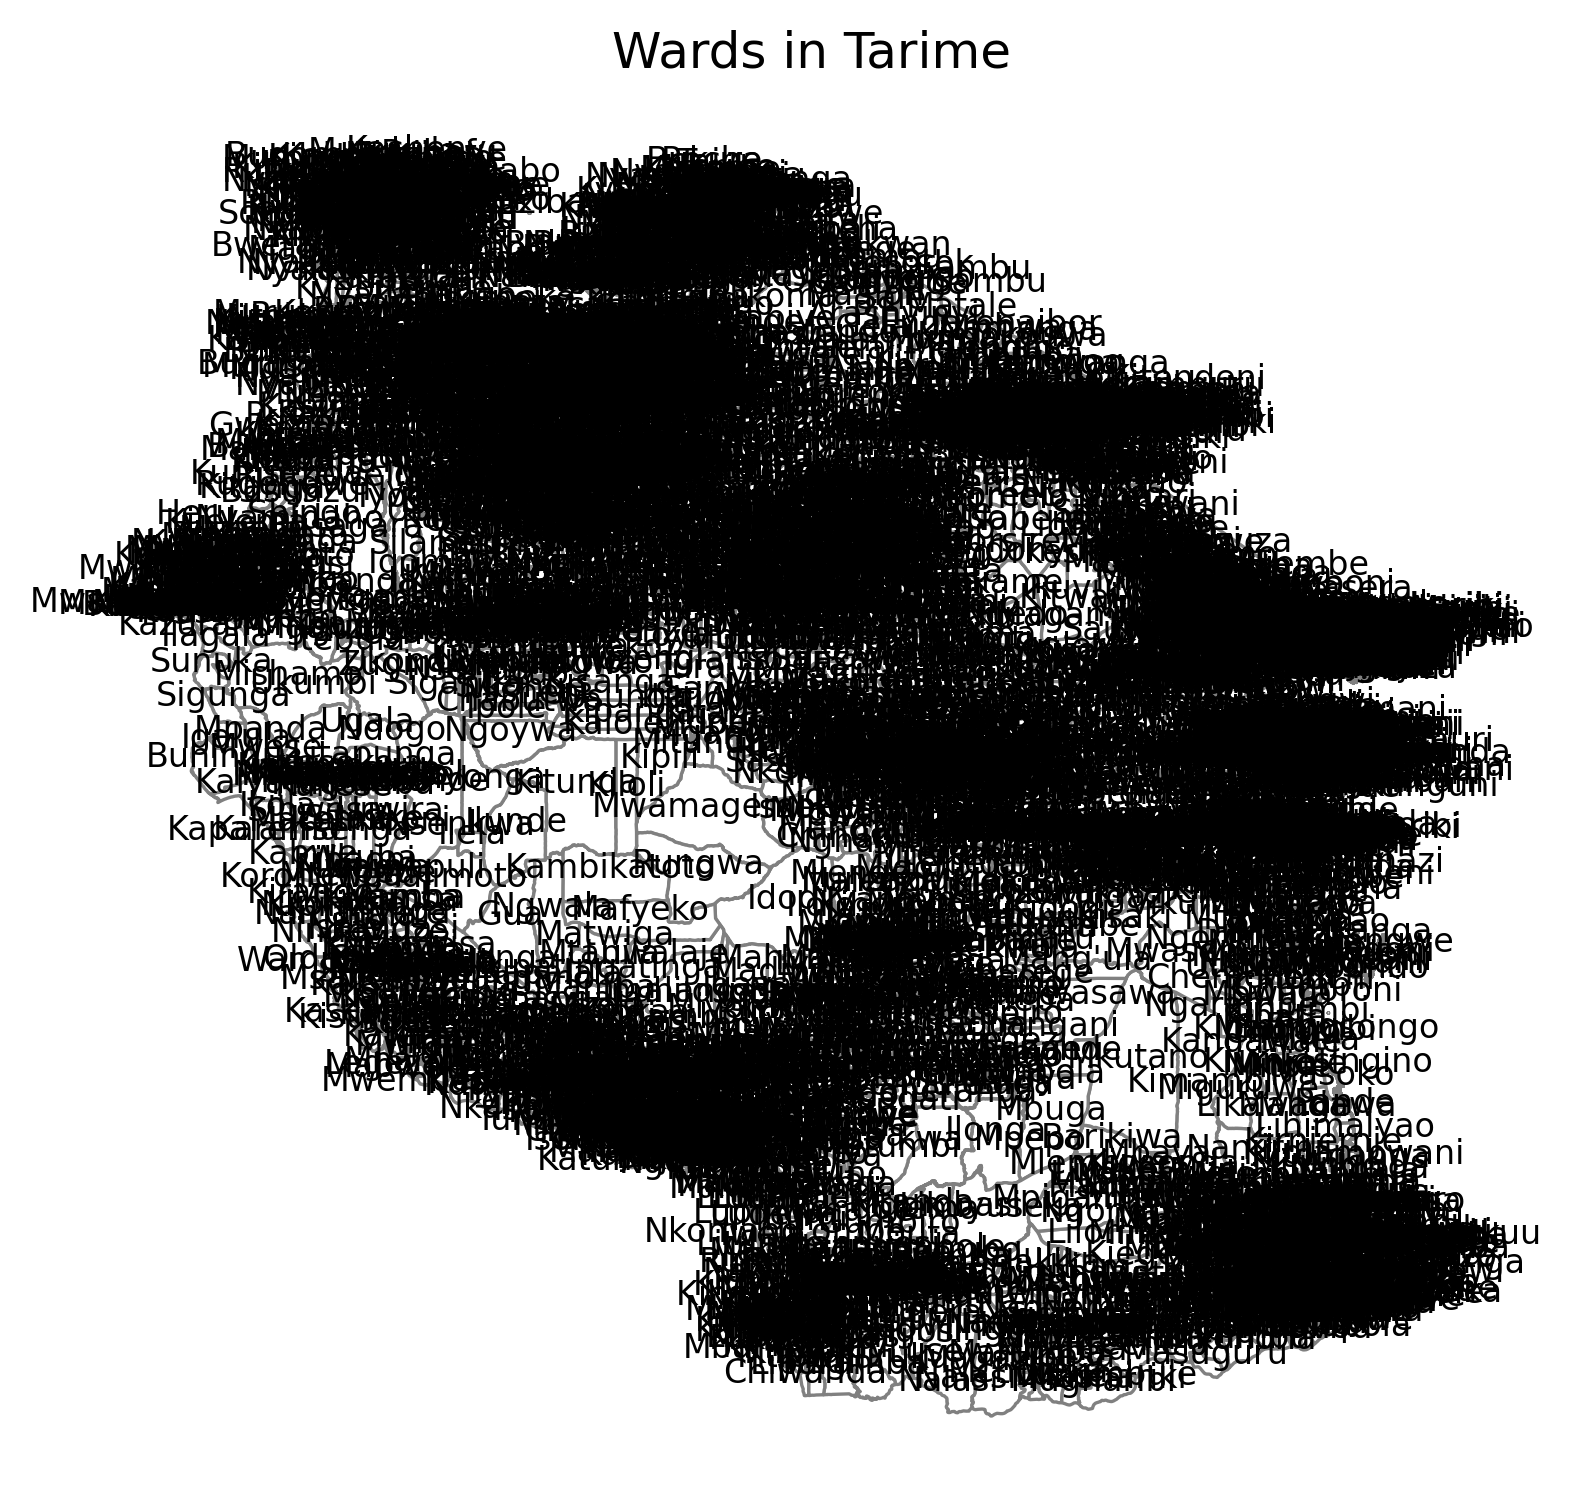
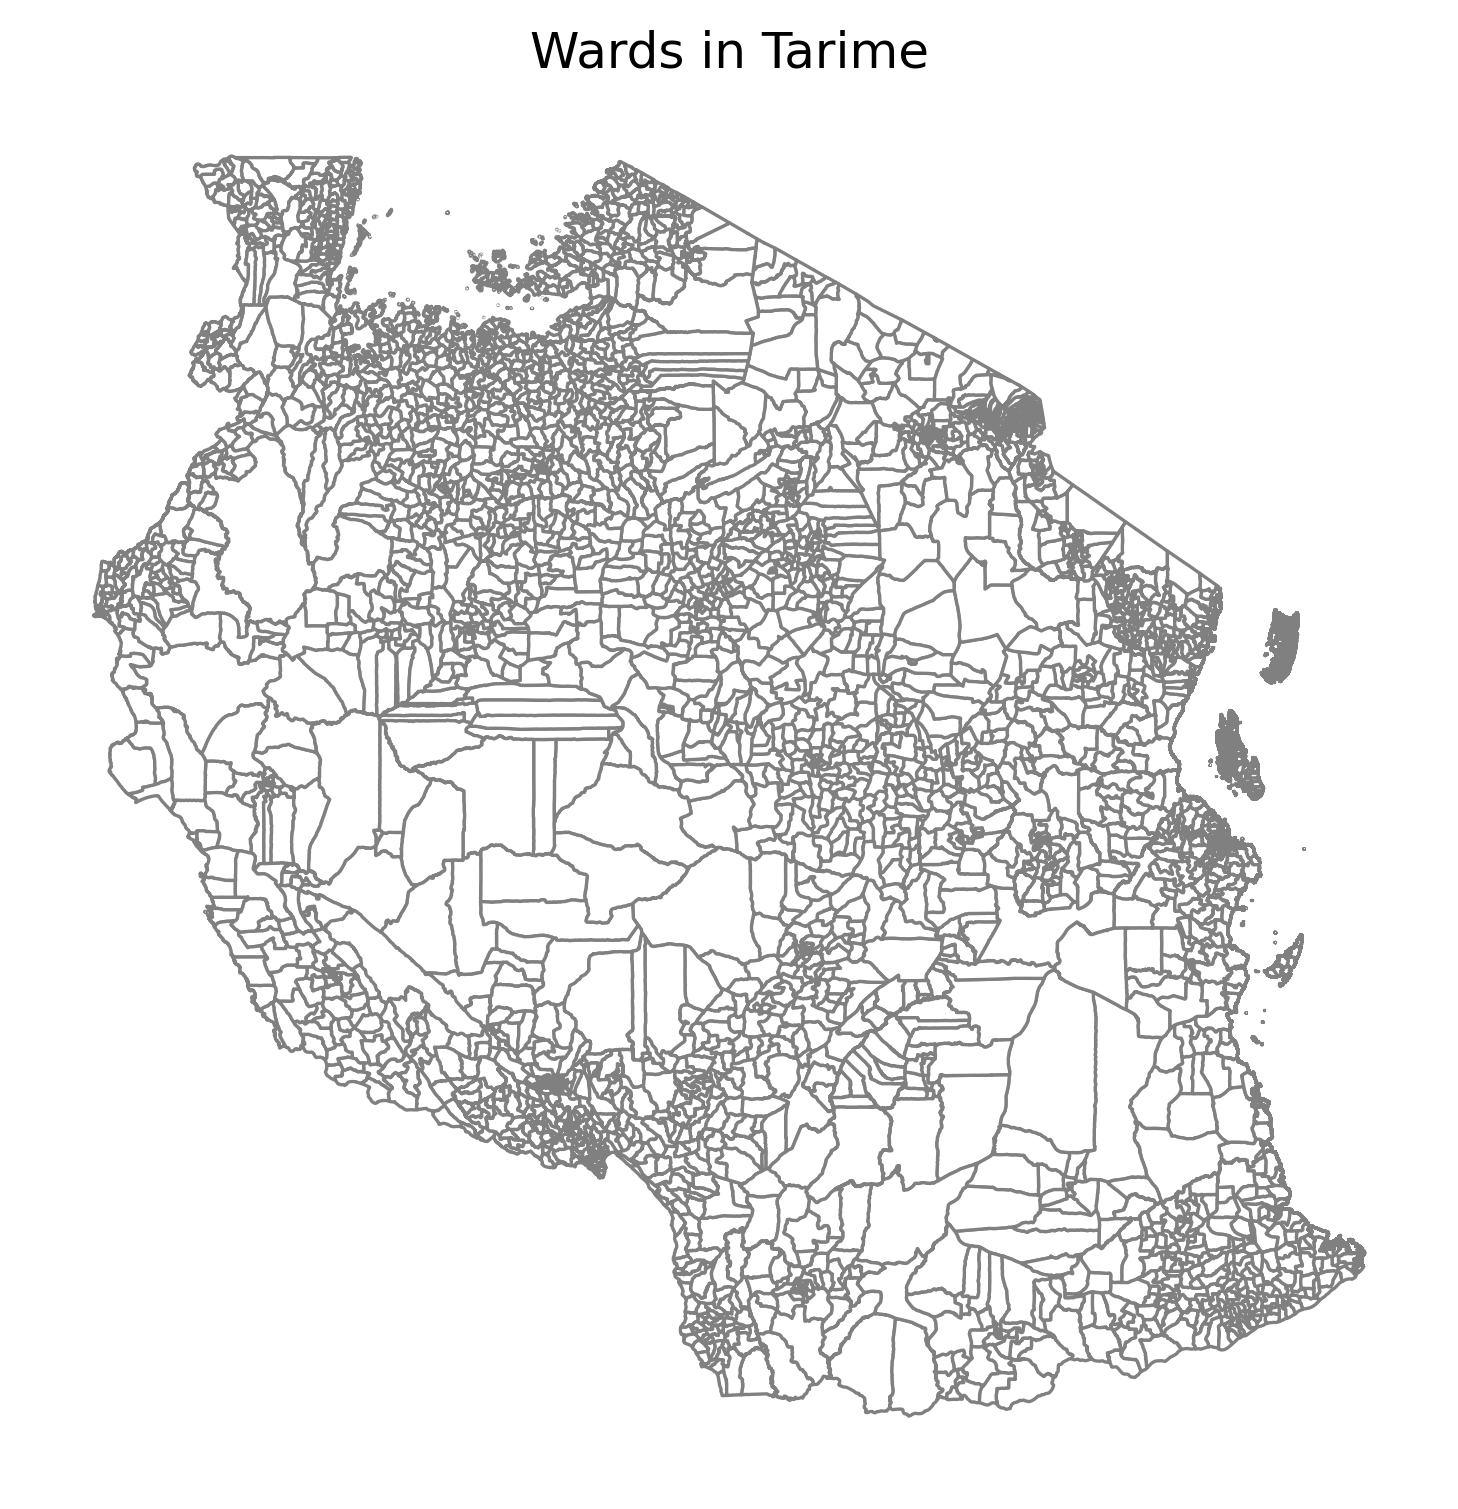
removed labels of ward names

diff --git a/TZA_AllWards.py b/TZA_AllWards.py
@@ -33,12 +33,6 @@ plt.axis("off")
 # Label graph
 plt.title("Wards in Tarime")
 
-# Label each ward by plotting the ward name at the centre of each ward
-for idx, row in wards.iterrows():  # Iterate through the rows of the GeoDataFrame
-    # Get the centroid of each district
-    centroid = row.geometry.centroid
-    # Add the district name at the centroid's coordinates
-    ax.text(centroid.x, centroid.y, row["shapeName"], fontsize=8, ha="center", color="black")  # Add the label
 
 
 plt.savefig("Visuals/all_Wards.png", dpi=300, bbox_inches="tight")
